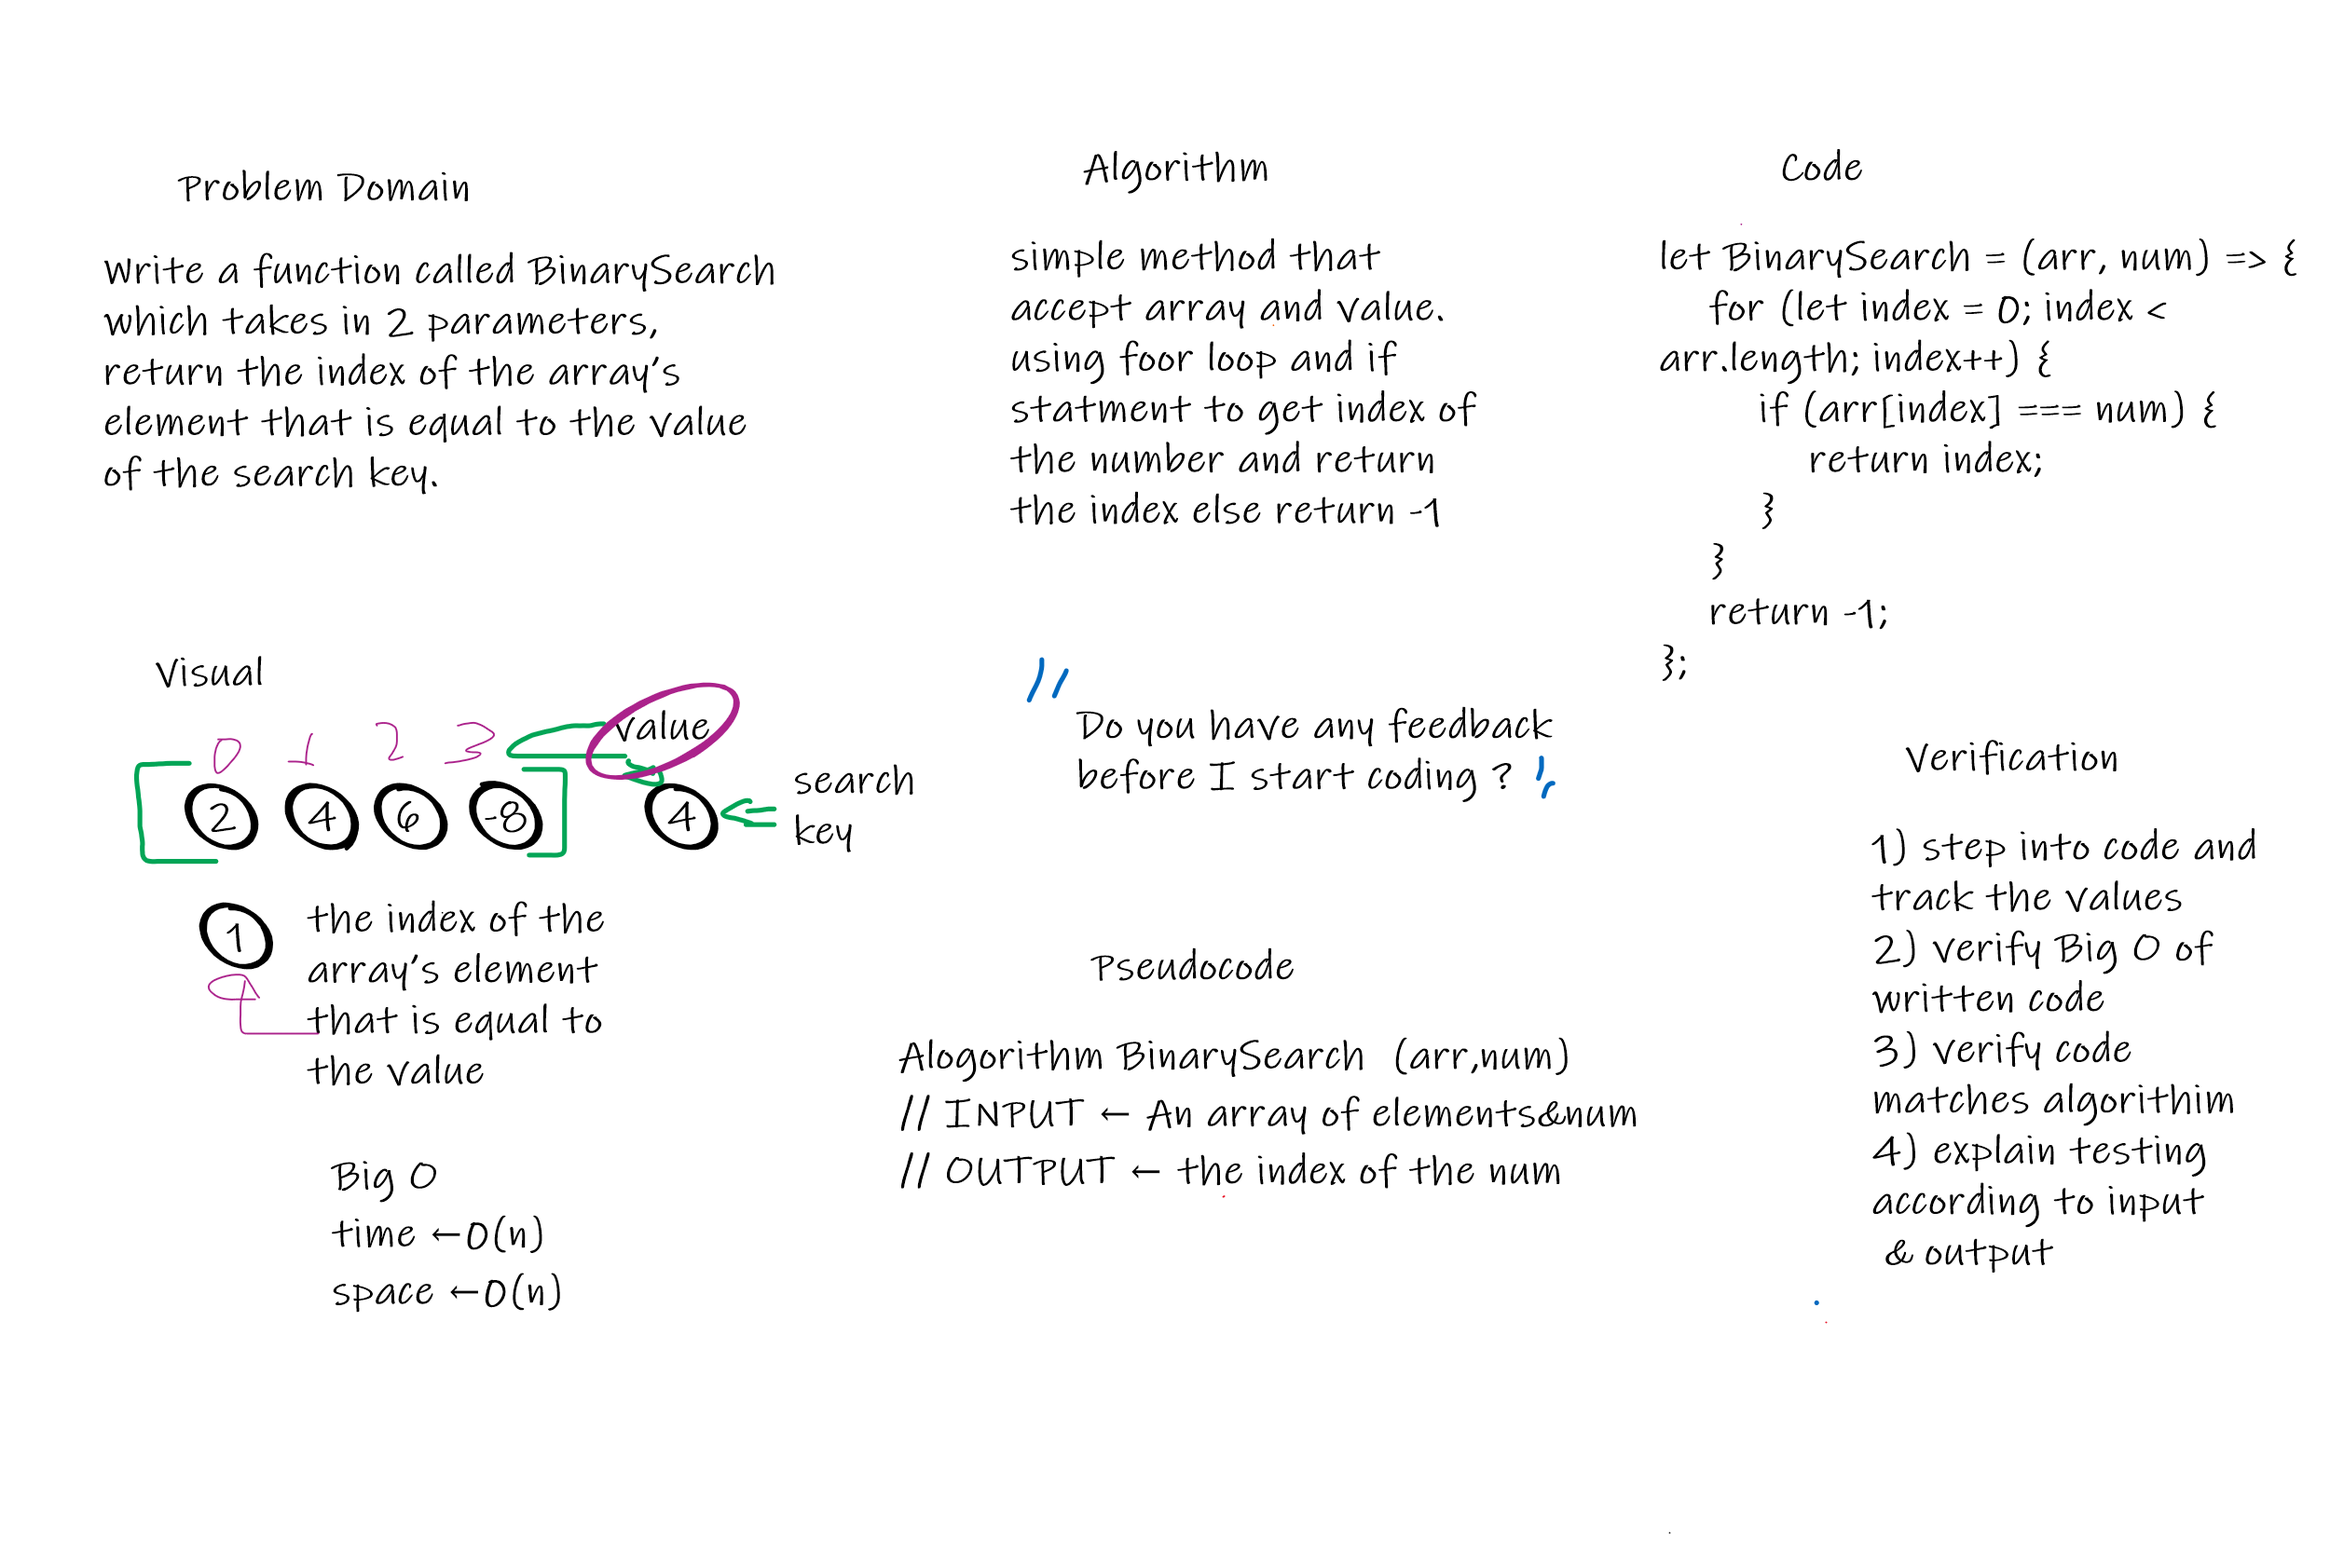
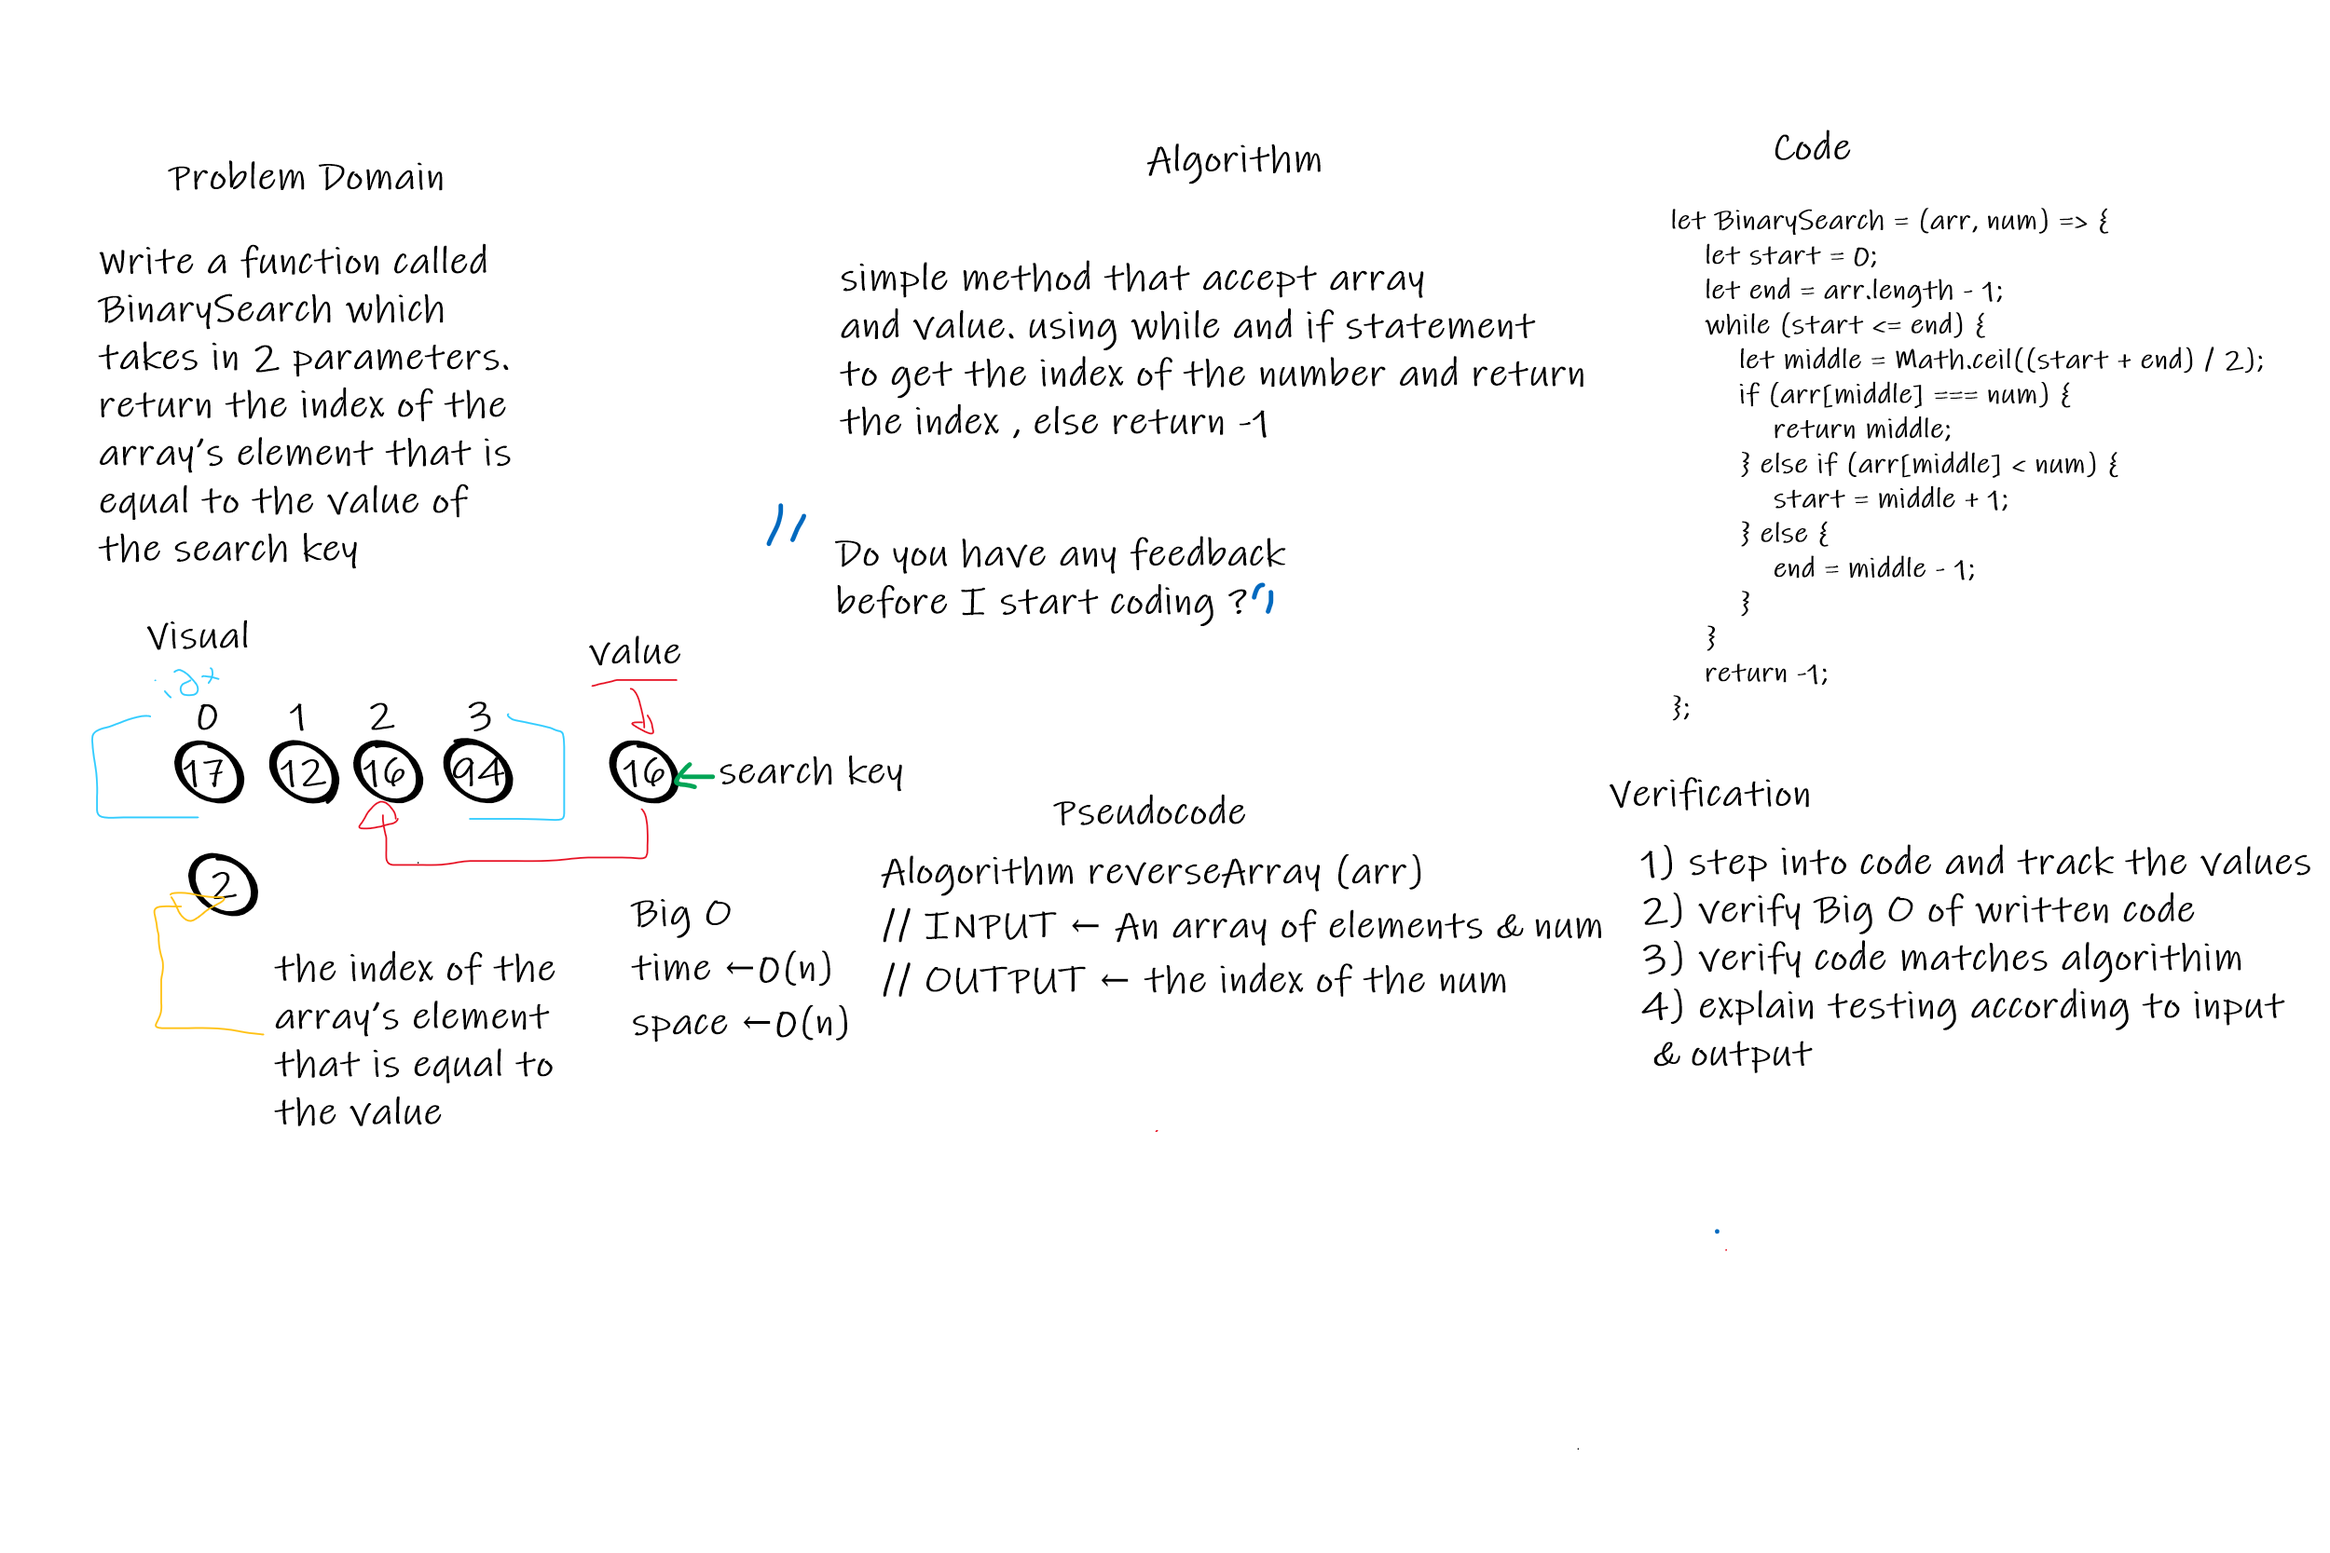
edit BinarySearch

diff --git a/javascript/code-challenges/array-binary-search/challenges-03.test.js b/javascript/code-challenges/array-binary-search/challenges-03.test.js
@@ -22,9 +22,18 @@ Output
 
 let BinarySearch = (arr, num) => {
 
-    for (let index = 0; index < arr.length; index++) {
-        if (arr[index] === num) {
-            return index;
+    let start = 0;
+    let end = arr.length - 1;
+
+    while (start <= end) {
+        let middle = Math.ceil((start + end) / 2);
+
+        if (arr[middle] === num) {
+            return middle;
+        } else if (arr[middle] < num) {
+            start = middle + 1;
+        } else {
+            end = middle - 1;
         }
     }
     return -1;
@@ -37,7 +46,7 @@ All the code below will verify that your functions are working to solve the chal
 
 DO NOT CHANGE any of the below code.
 
-Run your tests from the console: jest challenges-01.test.js
+Run your tests from the console: jest challenges-03.test.js
 
 ------------------------------------------------------------------------------------------------ */
 

diff --git a/javascript/code-challenges/array-binary-search/README.md b/javascript/code-challenges/array-binary-search/README.md
@@ -1,4 +1,4 @@
-# Reverse an Array
+# Binary Search
 
 <!-- Description of the challenge -->
 
@@ -14,4 +14,4 @@ Write a function called BinarySearch which takes in 2 parameters: a sorted array
 
 <!-- What approach did you take? Discuss Why. What is the Big O space/time for this approach? -->
 
-simple for loop to iterate over the given array, checking if the element of the array is equal to the given search key then returned the index,or -1 if the element is not in the array.
+simple while loop to iterate over the given array, checking if the element of the array is equal to the given search key then returned the index,or -1 if the element is not in the array.
